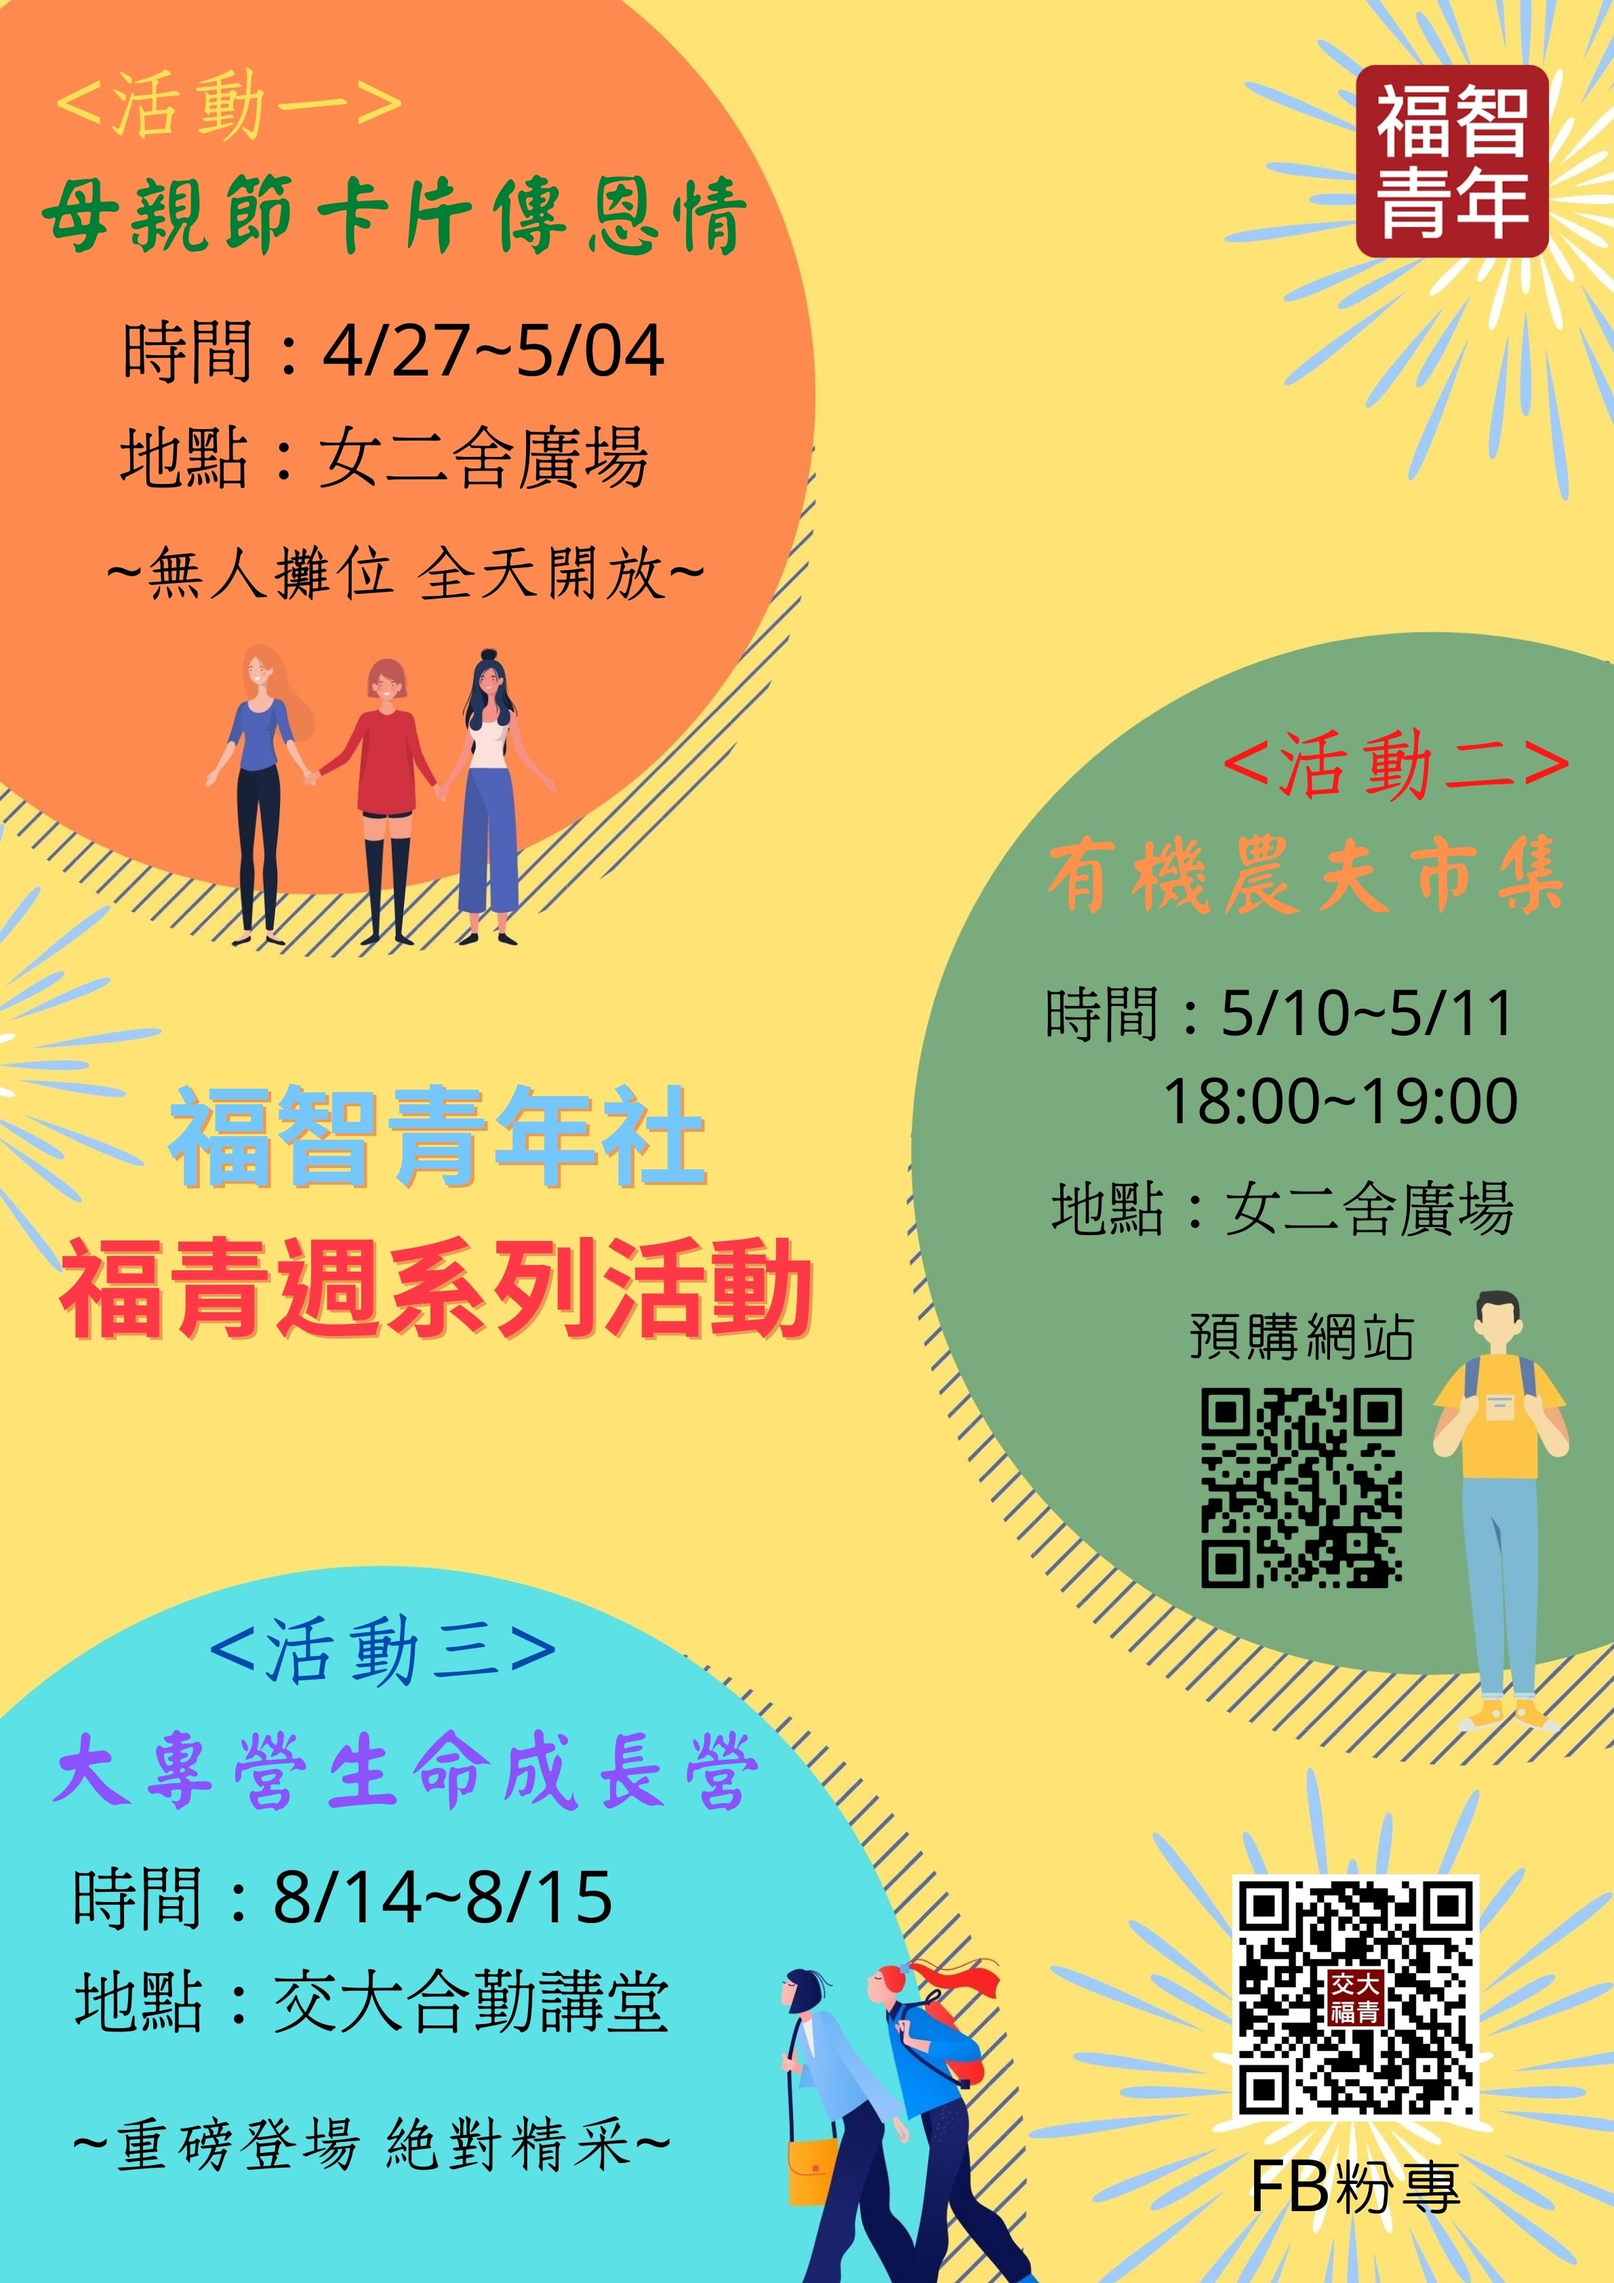
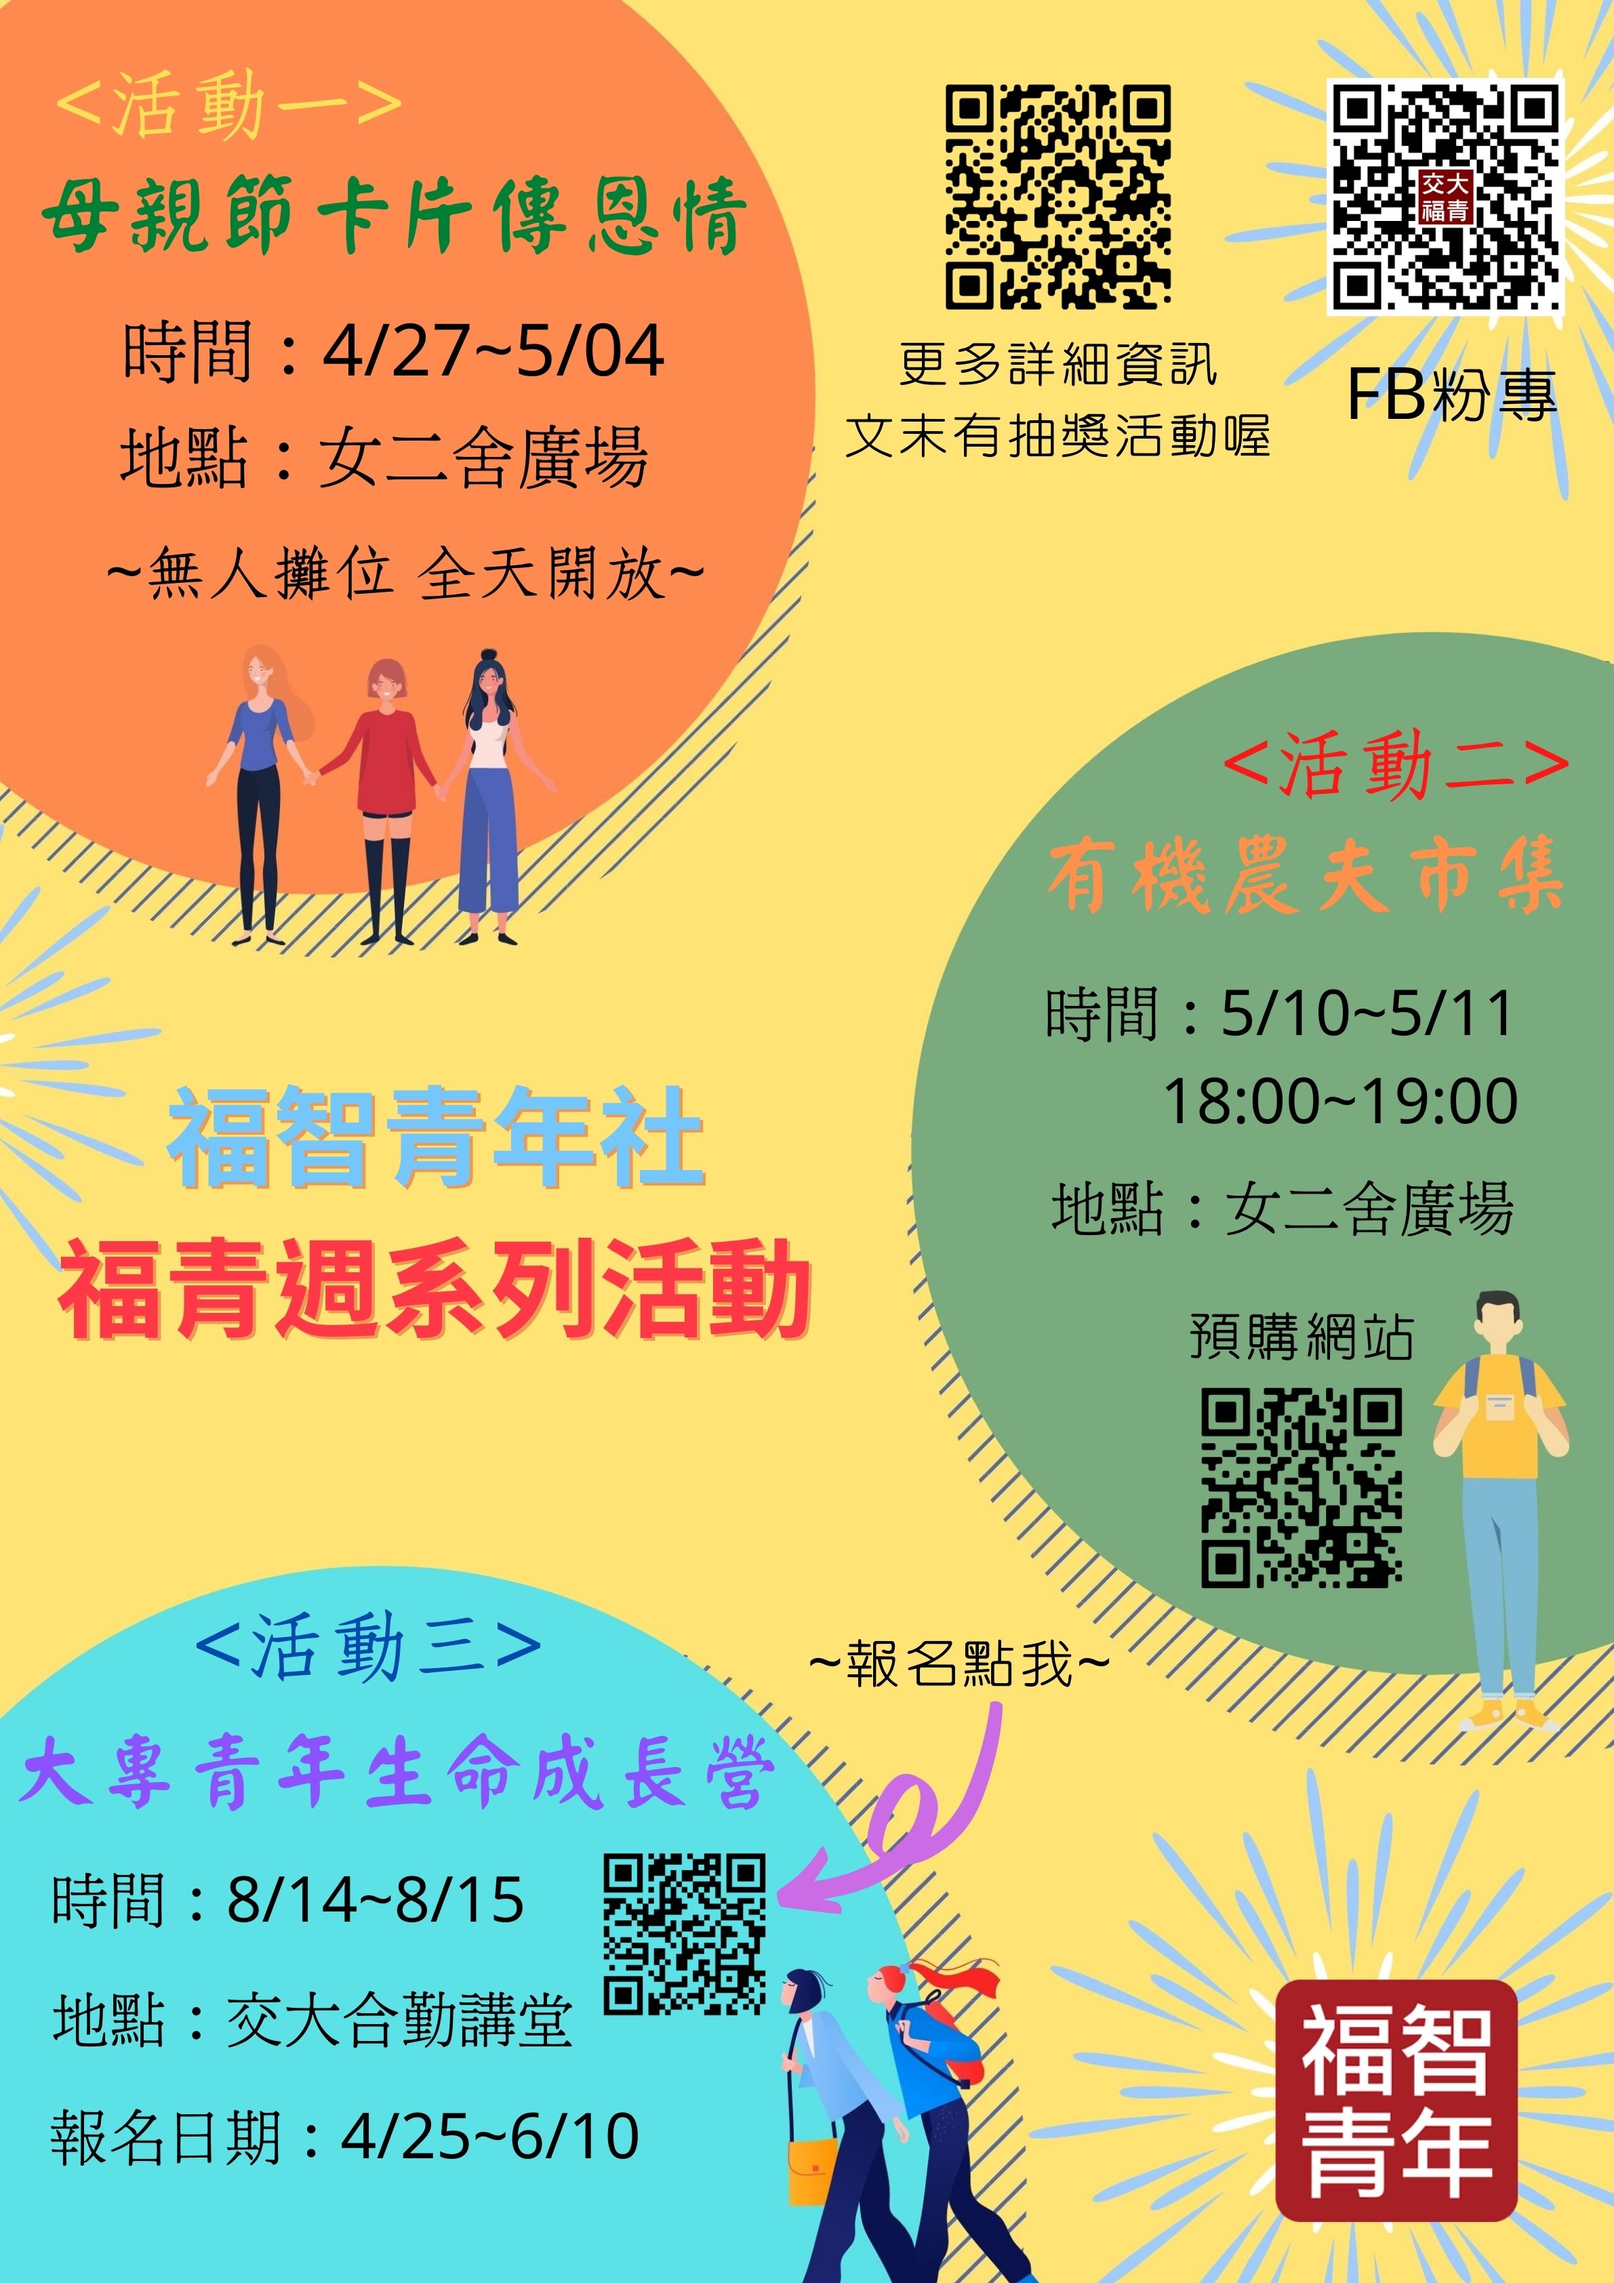
Fix name and poster

diff --git a/_layouts/default.html b/_layouts/default.html
@@ -14,6 +14,7 @@
 			<div id="logo"><img class="logo" src="https://raw.githubusercontent.com/timjeffrey10/NYCU-BWY-2021/main/img/logo.png"></div>
 			<h1 class="project-name">福智青年社 福青週-有機農夫市集 預購表單</h1>
 			<a href="https://www.facebook.com/nctubwy" class="btn">拜訪交大福智青年社</a>
+			<a href="https://www.facebook.com/nctubwy/posts/1906184056230414" class="btn">更多活動資訊</a>
 		</header>
 		<!-- <div class="btn2">
 			<a href="https://bwyouth.wixsite.com/camp2021"><div>大專營</div><div>報名點我</div></a>
@@ -49,7 +50,7 @@
 						<p>取貨/擺攤地點: 女二廣場旁(鼎天的穿堂)</p>
 						<p>活動方式: 擺攤現場會有很多健康有機的商品供大家選購，提前在表單預購可獲得更優惠的價格</p>	
 					</div>
-					<h3>大專營生命成長營</h3>
+					<h3>大專青年生命成長營</h3>
 					<div class="info">
 						<p>活動日期: 8/14~8/15</p>
 						<p>活動地點: 工四合勤講堂</p>

diff --git a/README.md b/README.md
@@ -1,10 +1,11 @@
 # NYCU-BWY-2021
 
-See Website from https://timjeffrey10.github.io/NYCU-BWY-2021/.
+See Website from <https://timjeffrey10.github.io/NYCU-BWY-2021/>.
 
 If there are any problems, please let me know or give me PR.
 
 TODO:
+
 - [X] 活動簡介
 - [X] 呈現樣式設計
 - [X] 預購商品確認
